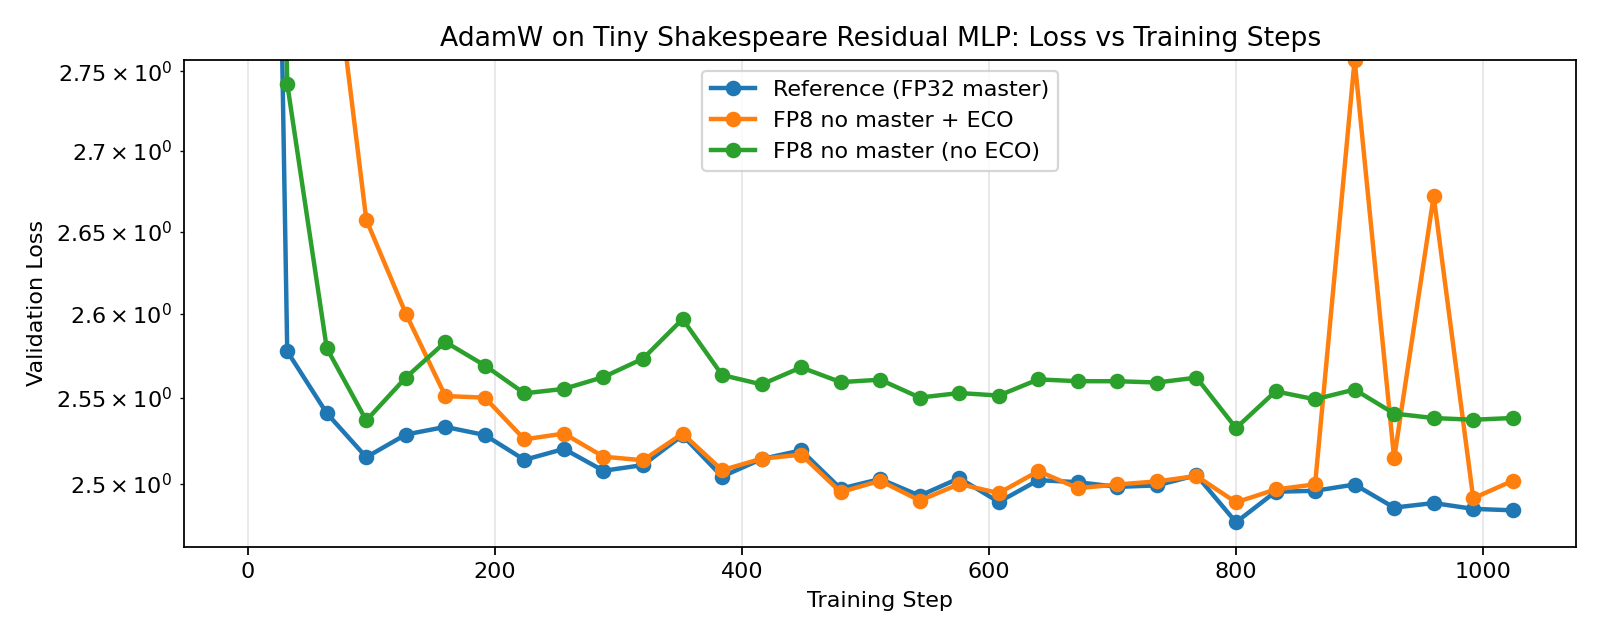
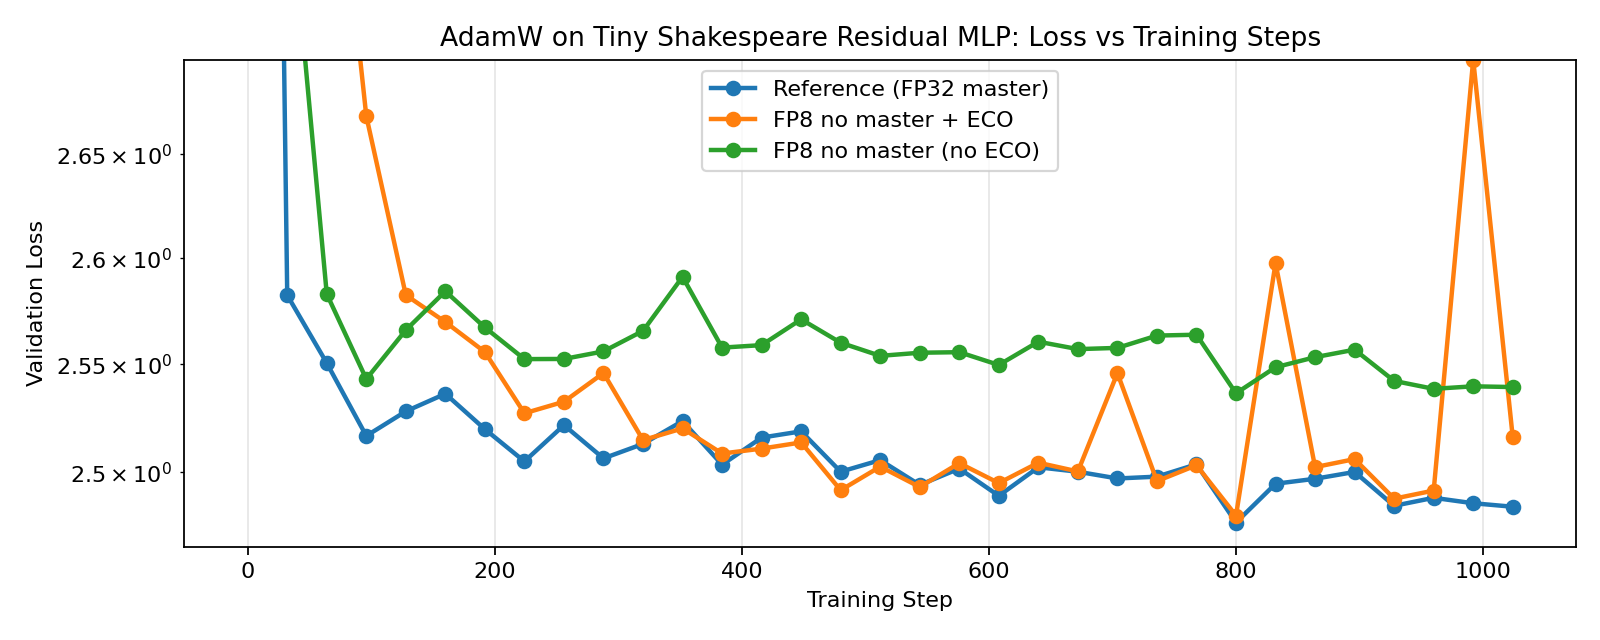
update eco

diff --git a/content/ponder/eco/train_residual_mlp_shakespeare_eco.py b/content/ponder/eco/train_residual_mlp_shakespeare_eco.py
@@ -421,11 +421,11 @@ def quantize_ste(
 
 @dataclass
 class QuantForwardConfig:
-    scale_mode: ScaleMode = "row"
+    weight_scale_mode: ScaleMode = "row"
     enable_weight_quantization: bool = True
     weight_stochastic_rounding: bool = True
     activation_stochastic_rounding: bool = False
-    activation_scale_mode: ScaleMode = "tensor"
+    activation_scale_mode: ScaleMode = "row"
     sr_generator: Optional[torch.Generator] = None
 
 
@@ -435,7 +435,7 @@ def quantize_weight_ste(x: Tensor, qcfg: QuantForwardConfig) -> Tensor:
     return quantize_ste(
         x,
         stochastic_rounding=qcfg.weight_stochastic_rounding,
-        scale_mode=qcfg.scale_mode,
+        scale_mode=qcfg.weight_scale_mode,
         generator=qcfg.sr_generator,
     )
 
@@ -1524,18 +1524,18 @@ def build_model(
     d_model: int,
     n_layers: int,
     mlp_hidden: int,
-    scale_mode: ScaleMode,
+    weight_scale_mode: ScaleMode,
     enable_weight_quantization: bool,
     lm_head_quantized: bool,
     device: torch.device,
     sr_generator: Optional[torch.Generator],
 ) -> ResidualMLPLM:
     qcfg = QuantForwardConfig(
-        scale_mode=scale_mode,
+        weight_scale_mode=weight_scale_mode,
         enable_weight_quantization=enable_weight_quantization,
         weight_stochastic_rounding=True,
         activation_stochastic_rounding=False,
-        activation_scale_mode="tensor",
+        activation_scale_mode="row",
         sr_generator=sr_generator,
     )
     model = ResidualMLPLM(
@@ -1683,7 +1683,7 @@ def main() -> None:
         d_model=args.d_model,
         n_layers=args.n_layers,
         mlp_hidden=args.mlp_hidden,
-        scale_mode=args.fp8_scale_mode,
+        weight_scale_mode=args.fp8_scale_mode,
         enable_weight_quantization=True,
         lm_head_quantized=True,
         device=torch.device("cpu"),
@@ -1715,7 +1715,7 @@ def main() -> None:
             d_model=args.d_model,
             n_layers=args.n_layers,
             mlp_hidden=args.mlp_hidden,
-            scale_mode=args.fp8_scale_mode,
+            weight_scale_mode=args.fp8_scale_mode,
             enable_weight_quantization=enable_weight_quantization,
             lm_head_quantized=True,
             device=device,
